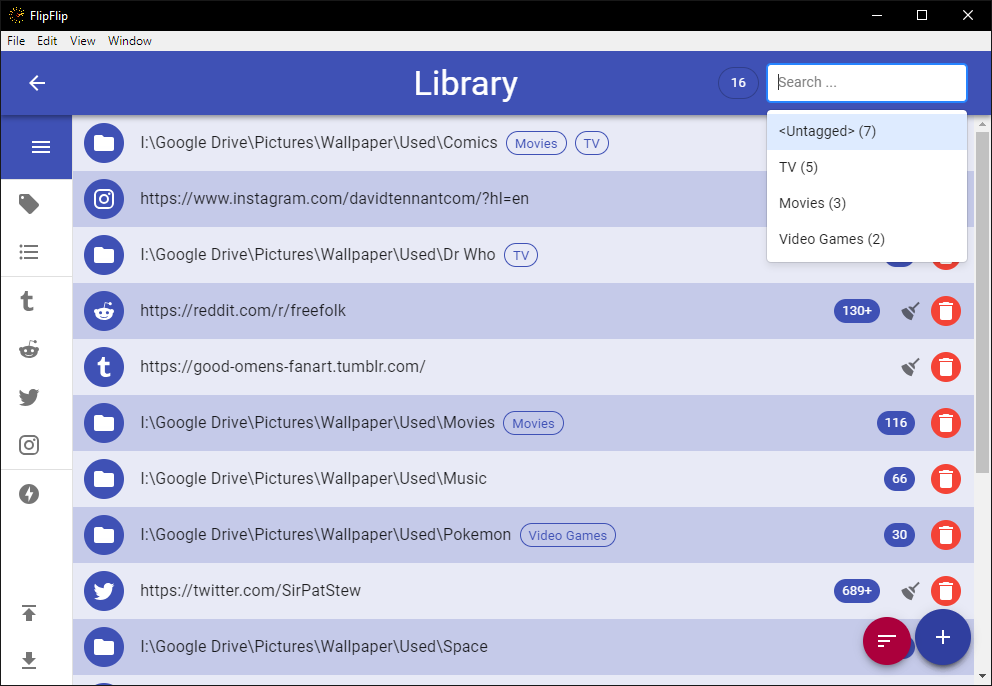
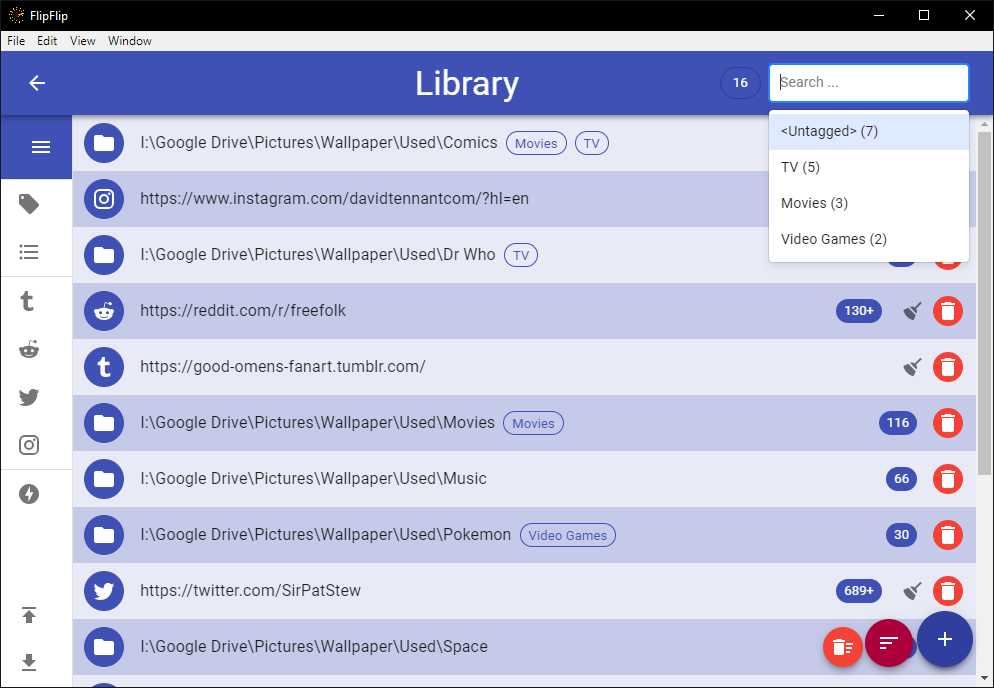
Prep for v3.0.0 release

diff --git a/src/renderer/components/library/Library.tsx b/src/renderer/components/library/Library.tsx
@@ -156,10 +156,12 @@ const styles = (theme: Theme) => createStyles({
     backgroundColor: theme.palette.background.default,
   },
   container: {
-    display: 'flex',
     padding: theme.spacing(0),
     overflow: 'hidden',
     flexGrow: 1,
+  },
+  containerNotEmpty: {
+    display: 'flex',
   },
   addMenuButton: {
     backgroundColor: theme.palette.primary.dark,
@@ -228,7 +230,12 @@ const styles = (theme: Theme) => createStyles({
   },
   removeAllButton: {
     backgroundColor: theme.palette.error.main,
-    marginBottom: 225,
+    margin: 0,
+    top: 'auto',
+    right: 130,
+    bottom: 20,
+    left: 'auto',
+    position: 'fixed',
   },
   addButtonClose: {
     marginBottom: 0,
@@ -554,7 +561,7 @@ class Library extends React.Component {
             {!this.props.isSelect && !this.props.isBatchTag &&  (
               <div className={classes.drawerSpacer}/>
             )}
-            <Container maxWidth={false} className={classes.container}>
+            <Container maxWidth={false} className={clsx(classes.container, this.state.displaySources.length > 0 && classes.containerNotEmpty)}>
               <SourceList
                 config={this.props.config}
                 isSelect={this.props.isSelect || this.props.isBatchTag}
@@ -621,11 +628,10 @@ class Library extends React.Component {
 
         {!this.props.isSelect && !this.props.isBatchTag && (
           <React.Fragment>
-            {this.props.library.length > 0 && this.state.filters.length == 0 && (
-              <Tooltip title="Remove All Sources"  placement="left">
+            {this.props.library.length > 0 && (
+              <Tooltip title={this.state.filters.length == 0 ? "Delete All Sources" : "Delete These Sources"}  placement="left">
                 <Fab
-                  className={clsx(classes.addButton, classes.removeAllButton, this.state.openMenu != MO.new && classes.addButtonClose, this.state.openMenu == MO.new && classes.backdropTop, this.state.filters.length > 0 && classes.hidden)}
-                  disabled={this.props.library.length == 0 || this.state.filters.length > 0}
+                  className={classes.removeAllButton}
                   onClick={this.onRemoveAll.bind(this)}
                   size="small">
                   <DeleteSweepIcon className={classes.icon} />
@@ -637,20 +643,42 @@ class Library extends React.Component {
               onClose={this.onCloseDialog.bind(this)}
               aria-labelledby="remove-all-title"
               aria-describedby="remove-all-description">
-              <DialogTitle id="remove-all-title">Delete Library</DialogTitle>
-              <DialogContent>
-                <DialogContentText id="remove-all-description">
-                  Are you sure you really wanna delete your entire library...? ಠ_ಠ
-                </DialogContentText>
-              </DialogContent>
-              <DialogActions>
-                <Button onClick={this.onCloseDialog.bind(this)} color="secondary">
-                  Cancel
-                </Button>
-                <Button onClick={this.onFinishRemoveAll.bind(this)} color="primary">
-                  Yea... I'm sure
-                </Button>
-              </DialogActions>
+              {this.state.filters.length == 0 && (
+                <React.Fragment>
+                  <DialogTitle id="remove-all-title">Delete Library</DialogTitle>
+                  <DialogContent>
+                    <DialogContentText id="remove-all-description">
+                      Are you sure you really wanna delete your entire library...? ಠ_ಠ
+                    </DialogContentText>
+                  </DialogContent>
+                  <DialogActions>
+                    <Button onClick={this.onCloseDialog.bind(this)} color="secondary">
+                      Cancel
+                    </Button>
+                    <Button onClick={this.onFinishRemoveAll.bind(this)} color="primary">
+                      Yea... I'm sure
+                    </Button>
+                  </DialogActions>
+                </React.Fragment>
+              )}
+              {this.state.filters.length > 0 && (
+                <React.Fragment>
+                  <DialogTitle id="remove-all-title">Delete Sources</DialogTitle>
+                  <DialogContent>
+                    <DialogContentText id="remove-all-description">
+                      Are you sure you want to remove these sources from your library?
+                    </DialogContentText>
+                  </DialogContent>
+                  <DialogActions>
+                    <Button onClick={this.onCloseDialog.bind(this)} color="secondary">
+                      Cancel
+                    </Button>
+                    <Button onClick={this.onFinishRemoveVisible.bind(this)} color="primary">
+                      Confirm
+                    </Button>
+                  </DialogActions>
+                </React.Fragment>
+              )}
             </Dialog>
             <Tooltip title="Local Video"  placement="left">
               <Fab
@@ -867,6 +895,12 @@ class Library extends React.Component {
     this.onCloseDialog();
   }
 
+  onFinishRemoveVisible() {
+    this.props.onUpdateLibrary(this.props.library.filter((s) => !this.state.displaySources.includes(s)));
+    this.onCloseDialog();
+    this.setState({filters: []});
+  }
+
   onImportFromLibrary() {
     const selected = this.state.selected;
     const sources = new Array<LibrarySource>();
@@ -907,9 +941,11 @@ class Library extends React.Component {
 
   savePosition() {
     const sortableList = document.getElementById("sortable-list");
-    const scrollElement = sortableList.firstElementChild;
-    const scrollTop = scrollElement ? scrollElement.scrollTop : 0;
-    this.props.savePosition(scrollTop, this.state.filters, this.state.selected);
+    if (sortableList) {
+      const scrollElement = sortableList.firstElementChild;
+      const scrollTop = scrollElement ? scrollElement.scrollTop : 0;
+      this.props.savePosition(scrollTop, this.state.filters, this.state.selected);
+    }
   }
 
   toggleMarked() {

diff --git a/src/renderer/data/AppStorage.tsx b/src/renderer/data/AppStorage.tsx
@@ -298,6 +298,10 @@ export default class AppStorage {
               scene.sceneWeights = null;
             }
           }
+
+          for (let i = 0; i < this.initialState.library.length; i++) {
+            this.initialState.library[i].id = i;
+          }
           break;
         case "3.0.0-beta3":
           this.initialState = {

diff --git a/docs/changelog.md b/docs/changelog.md
@@ -1,6 +1,12 @@
 # Changelog
 
-## 3.0.0 <small>(XX/XX/2019)</small>
+## 3.0.0 <small>(11/13/2019)</small>
+- Fix bug with caption script styling
+- Fix bug with empty library
+- Fix bug with randomization
+- Fix bug with generating sources
+- Fix bug with darkmode text
+
 #### 3.0.0-beta3 <small>(10/31/2019)</small>
 - Material UI redesign
 - Interactive Tutorials

diff --git a/docs/grid.md b/docs/grid.md
@@ -1,7 +1,5 @@
 # Scene Grid
 
-?> Note: This feature is still in beta and may not work as expected.
-
 A Scene Grid allows you to play your Scenes simultaneously in a grid format. To make one, click the `+` from the
 Scene Picker (Home) and select `Scene Grid`.
 

diff --git a/docs/_coverpage.md b/docs/_coverpage.md
@@ -1,6 +1,6 @@
 ![logo](doc_images/flipflip_logo.png)
 
-# FlipFlip <small>3.0-beta3</small>
+# FlipFlip <small>3.0</small>
 
 > A glorified slideshow, with _lots_ of bells and whistles
 
